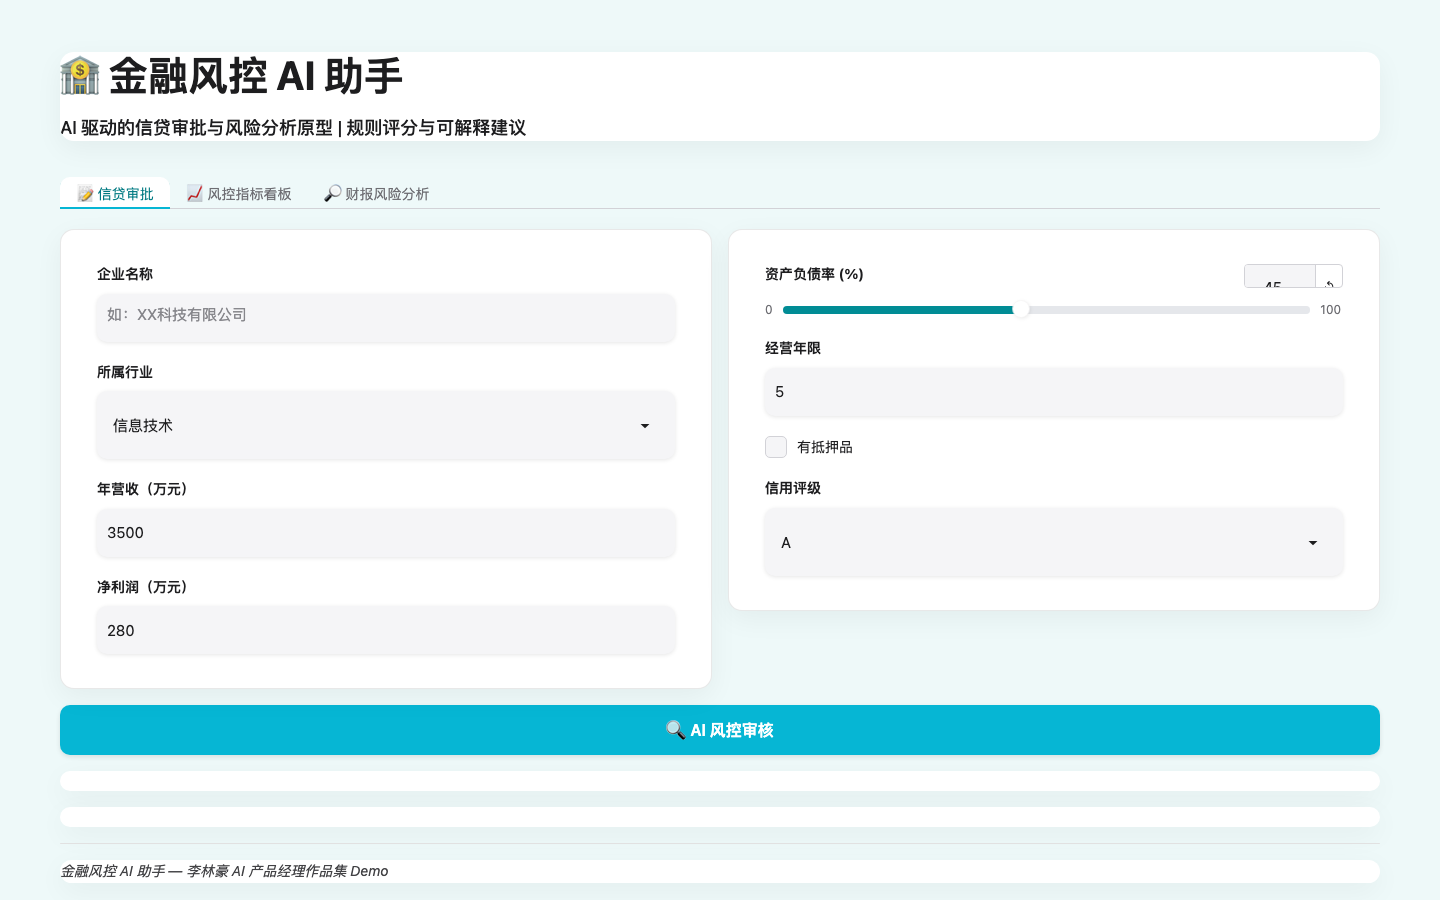
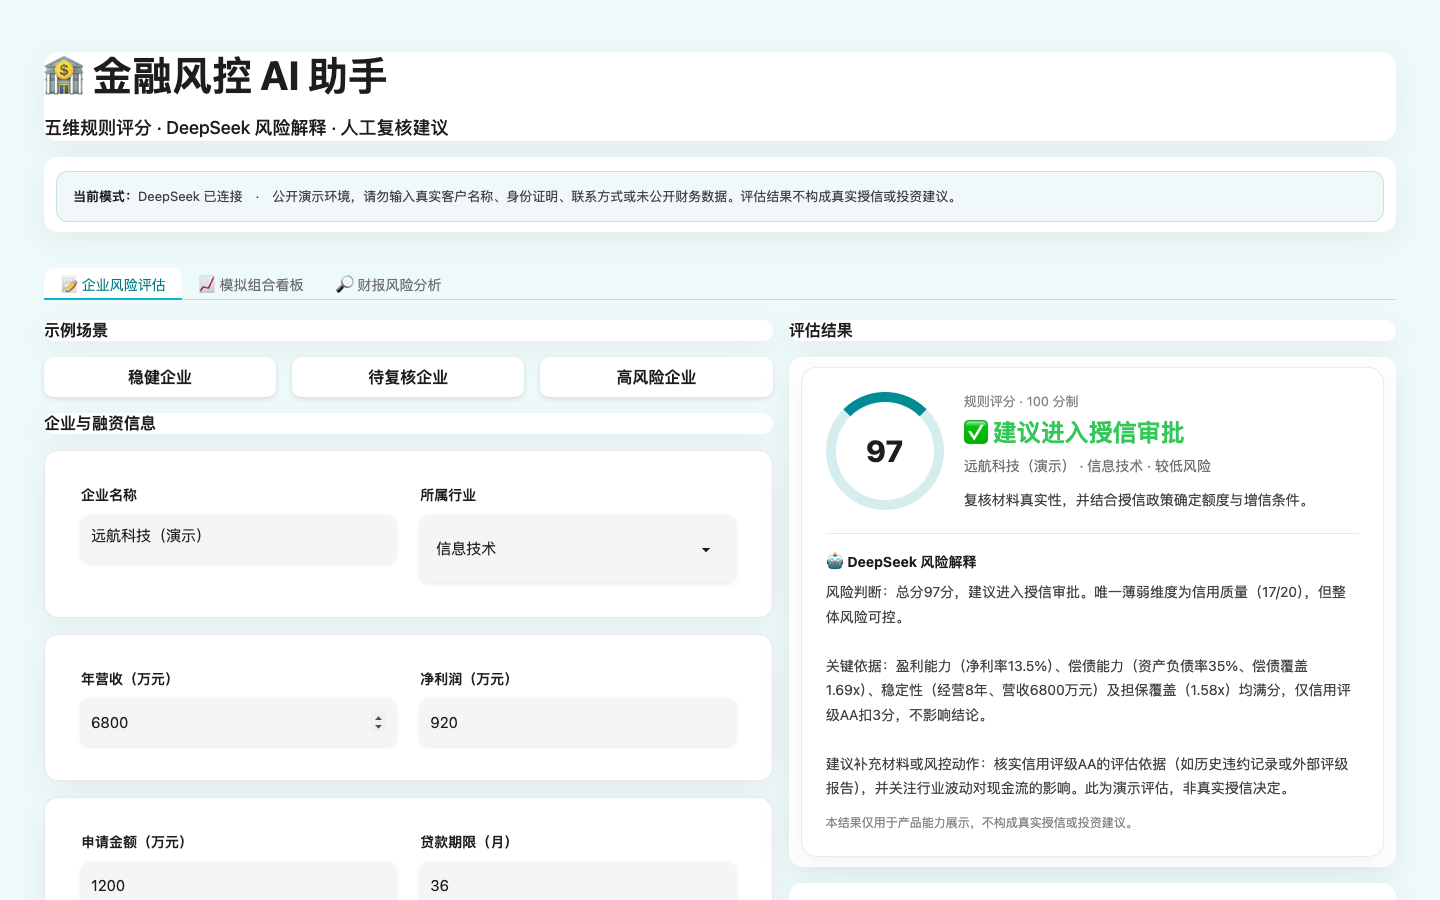
升级金融风控 Demo 展示

diff --git a/project_07.html b/project_07.html
@@ -72,7 +72,7 @@ body{background:var(--bg);color:var(--text)}
 <header class="header">
   <div class="emoji">🛡️</div>
   <h1>金融风控 AI 助手</h1>
-  <div class="subtitle">信贷审批模拟 · 风控指标 · 财报风险分析</div>
+  <div class="subtitle">五维规则评分 · DeepSeek 风险解释 · 财报风险扫描</div>
   <div class="hero-actions">
     <a href="live_07.html" class="demo-button">在线体验 ↗</a>
     <span class="model-label">Gradio · 风控规则 · DeepSeek</span>
@@ -83,10 +83,10 @@ body{background:var(--bg);color:var(--text)}
   <section class="case-section" aria-labelledby="preview-title-07">
     <div class="section-heading">
       <div><span class="section-kicker">Product interface</span><h2 id="preview-title-07">界面预览</h2></div>
-      <p>客户信息、核心风险变量与审批操作采用双栏布局，便于同时查看输入条件和风控判断依据。</p>
+      <p>企业与融资信息、100 分制风险结果采用双栏布局，可同时查看输入条件、维度评分和模型解释。</p>
     </div>
     <figure class="interface-preview">
-      <img src="assets/generated/project-07-demo.png?v=20260714-copy-audit" alt="金融风控 AI 助手在线 Demo 界面" loading="eager">
+      <img src="assets/generated/project-07-demo.png?v=20260715-risk-v2" alt="金融风控 AI 助手在线 Demo 界面" loading="eager">
       <figcaption>信贷审批与风险分析工作台<span>最新在线 Demo 界面截图</span></figcaption>
     </figure>
   </section>
@@ -95,13 +95,13 @@ body{background:var(--bg);color:var(--text)}
     <div class="summary-copy">
       <span class="section-kicker">Project summary</span>
       <h2 id="summary-title-07">用标准化评分与大模型解释辅助信贷风险判断</h2>
-      <p>覆盖贷前准入、授信建议、指标监控和财报文本扫描，把结构化规则与自然语言解释结合起来，输出可复核的风险建议。</p>
+      <p>覆盖企业风险评估、模拟组合指标和财报文本扫描，把五维规则评分与大模型解释结合起来，输出可复核的风险建议。</p>
       <a href="live_07.html" class="summary-link">打开在线 Demo →</a>
     </div>
     <div class="metrics-inline" aria-label="核心指标">
-      <div class="metric-item"><strong>4 环节</strong><span>风控流程</span></div>
-      <div class="metric-item"><strong>实时</strong><span>指标查看</span></div>
-      <div class="metric-item"><strong>可解释</strong><span>审批建议</span></div>
+      <div class="metric-item"><strong>5 维</strong><span>100 分评分</span></div>
+      <div class="metric-item"><strong>3 场景</strong><span>一键体验</span></div>
+      <div class="metric-item"><strong>规则 + AI</strong><span>双层解释</span></div>
     </div>
   </section>
 
@@ -110,19 +110,19 @@ body{background:var(--bg);color:var(--text)}
       <span class="section-kicker">Product capabilities</span>
       <h2>功能拆解</h2>
       <ul class="features">
-        <li>解析收入、负债、征信与抵押等贷前信息</li>
-        <li>根据 DTI、收入与信用条件形成授信区间建议</li>
-        <li>集中查看不良率、拨备和资本等风控指标</li>
-        <li>扫描财报附注中的担保、诉讼与关联交易风险</li>
-        <li>保留规则命中项与解释信息，支持人工复核</li>
+        <li>采集营收、利润、现金流、偿债额、信用与抵押等信息</li>
+        <li>按盈利、偿债、稳定性、信用和担保五个维度形成 0–100 分评分</li>
+        <li>提供稳健、待复核与高风险三个虚构场景，一键填充体验</li>
+        <li>扫描财报中的风险信号，并展示触发判断的原文依据</li>
+        <li>由 DeepSeek 生成风险解释与补充材料建议，最终保留人工复核</li>
       </ul>
     </div>
     <div class="detail-panel">
       <span class="section-kicker">Technical delivery</span>
       <h2>技术架构</h2>
       <div class="architecture-list">
-        <div class="architecture-item"><strong>规则层</strong><p>Python 风控引擎执行可配置的评分卡与准入规则。</p></div>
-        <div class="architecture-item"><strong>分析层</strong><p>DeepSeek 提取财报风险点并生成解释性摘要。</p></div>
+        <div class="architecture-item"><strong>规则层</strong><p>Python 风控引擎执行五维评分、阈值判断与财报信号扫描。</p></div>
+        <div class="architecture-item"><strong>分析层</strong><p>DeepSeek 基于规则结果生成风险解释、核验材料与风控动作。</p></div>
         <div class="architecture-item"><strong>交互层</strong><p>Gradio 组织审批表单、指标看板和风险分析结果。</p></div>
       </div>
       <div class="tags"><span class="tag">风控规则</span><span class="tag">信贷审批</span><span class="tag">DeepSeek</span><span class="tag">Gradio</span><span class="tag">Python</span></div>
@@ -131,7 +131,7 @@ body{background:var(--bg);color:var(--text)}
 
   <section class="insight-band" aria-labelledby="insight-title-07">
     <div><span class="section-kicker">Product insight</span><h2 id="insight-title-07">产品洞察</h2></div>
-    <p>金融风控需要效率，也需要可解释和可追责。AI适合承担材料归纳、规则执行与风险提示，最终审批仍应保留人工授权、审计记录和模型监控。</p>
+    <p>金融风控需要效率，也需要可解释和可追责。AI 适合承担材料归纳、风险解释与提示，确定性评分由规则引擎执行，最终审批仍应保留人工授权、审计记录和模型监控。</p>
   </section>
   <p class="case-note">本 Demo 为风控流程模拟，不构成授信、投资或其他金融决策建议。</p>
 

diff --git a/projects.html b/projects.html
@@ -291,18 +291,18 @@ body{background:var(--bg);color:var(--text)}
       <div class="arrow">→</div>
     </div>
     <h3>金融风控 AI 助手</h3>
-    <p class="subtitle">信贷风险评估 + 指标监控 + 财报扫描 + 可解释建议</p>
+    <p class="subtitle">五维规则评分 + DeepSeek 风险解释 + 财报原文扫描</p>
     <div class="stats">
-      <span class="stat">📋 <b>贷前</b>审核</span>
-      <span class="stat">📈 <b>5</b>大指标</span>
-      <span class="stat">🔍 财报<b>扫描</b></span>
+      <span class="stat">📋 <b>5维</b>评分</span>
+      <span class="stat">🧪 <b>3</b>场景</span>
+      <span class="stat">🔍 原文<b>依据</b></span>
     </div>
     <div class="tags-row">
-      <span class="tag">风控中台</span>
-      <span class="tag">NLP</span>
+      <span class="tag">规则引擎</span>
+      <span class="tag">DeepSeek</span>
       <span class="tag">Gradio</span>
     </div>
-    <div class="card-media"><img src="assets/generated/project-07-demo.png?v=20260714-copy-audit" alt="金融风控 AI 助手界面" loading="lazy"></div>
+    <div class="card-media"><img src="assets/generated/project-07-demo.png?v=20260715-risk-v2" alt="金融风控 AI 助手界面" loading="lazy"></div>
   </a>
 
   <!-- 08 -->

diff --git a/index.html b/index.html
@@ -477,7 +477,7 @@ h1 .gradient{background:linear-gradient(135deg,#1d1d1f,#434344);-webkit-backgrou
         </div>
       </div>
       <div class="project-grid">
-        <a class="project p07" href="project_07.html"><div class="project-body"><div class="project-index">FinTech · 风险决策</div><h3>金融风控 AI 助手</h3><p>整合贷前审核、指标查看与财报扫描，输出可解释、可复核的风险建议。</p><div class="tags"><span class="tag">风控</span><span class="tag">信贷</span><span class="tag">NLP</span></div><span class="link">查看详情</span></div></a>
+        <a class="project p07" href="project_07.html"><div class="project-body"><div class="project-index">FinTech · 风险决策</div><h3>金融风控 AI 助手</h3><p>以五维规则形成 100 分风险评分，再由 DeepSeek 输出可复核的风险解释与材料建议。</p><div class="tags"><span class="tag">规则评分</span><span class="tag">DeepSeek</span><span class="tag">人工复核</span></div><span class="link">查看详情</span></div></a>
         <a class="project p11" href="project_11.html"><div class="project-body"><div class="project-index">Knowledge Graph · 知识结构化</div><h3>知识图谱可视化</h3><p>从文本抽取实体关系，支持图谱交互、关系查看与路径推理。</p><div class="tags"><span class="tag">知识图谱</span><span class="tag">关系推理</span><span class="tag">可视化</span></div><span class="link">查看详情</span></div></a>
         <a class="project p01" href="project_01.html"><div class="project-body"><div class="project-index">AIGC · 视觉生成</div><h3>跨境电商 AI 商品图生成器</h3><p>输入产品描述后生成 5 类电商上架素材图，用于快速验证不同 SKU 的素材方向。</p><div class="tags"><span class="tag">Flux Pro</span><span class="tag">Flask</span><span class="tag">fal.ai</span></div><span class="link">查看详情</span></div></a>
         <a class="project p12" href="project_12.html"><div class="project-body"><div class="project-index">Agent · 工作流编排</div><h3>GenAI Agent 平台</h3><p>通过自然语言生成可编辑工作流，支持拖拽编排、运行与导出。</p><div class="tags"><span class="tag">Agent Flow</span><span class="tag">Workflow</span><span class="tag">Tool Calling</span></div><span class="link">查看详情</span></div></a>